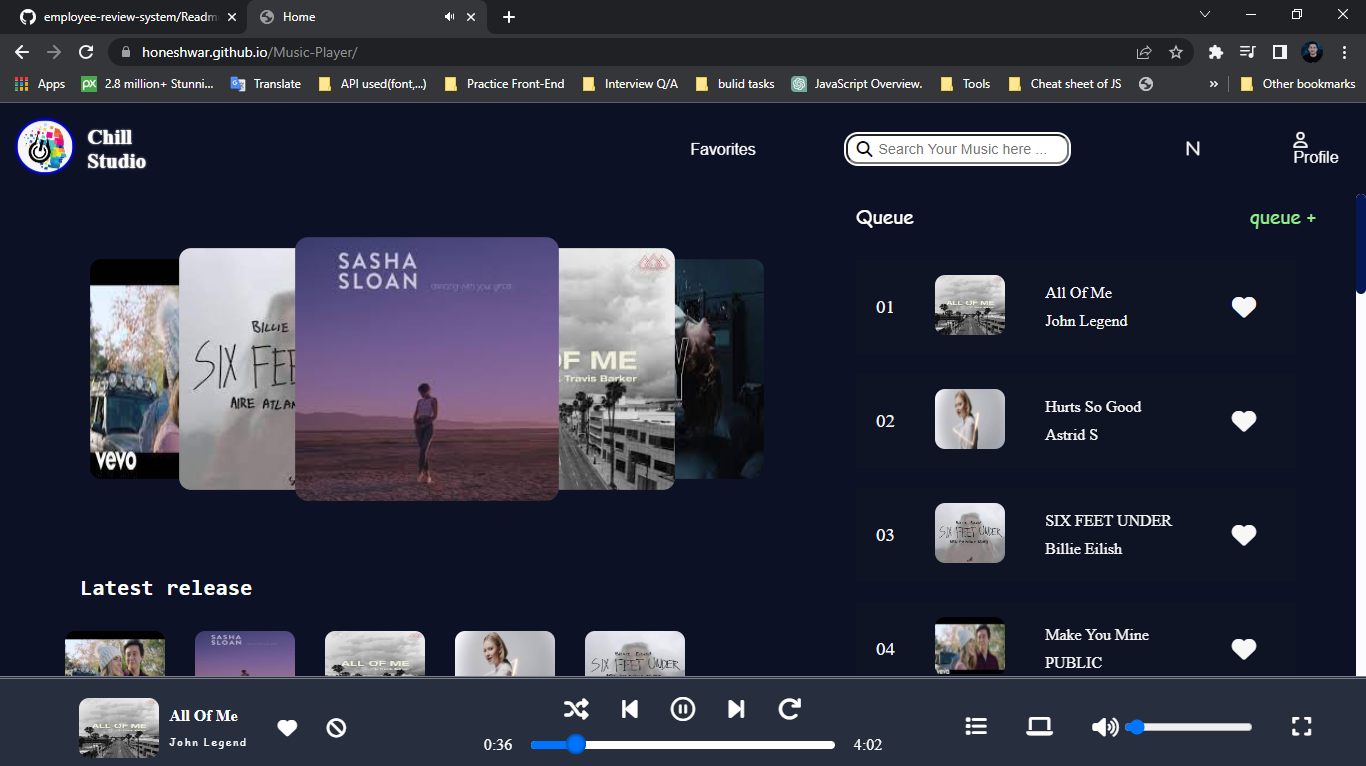
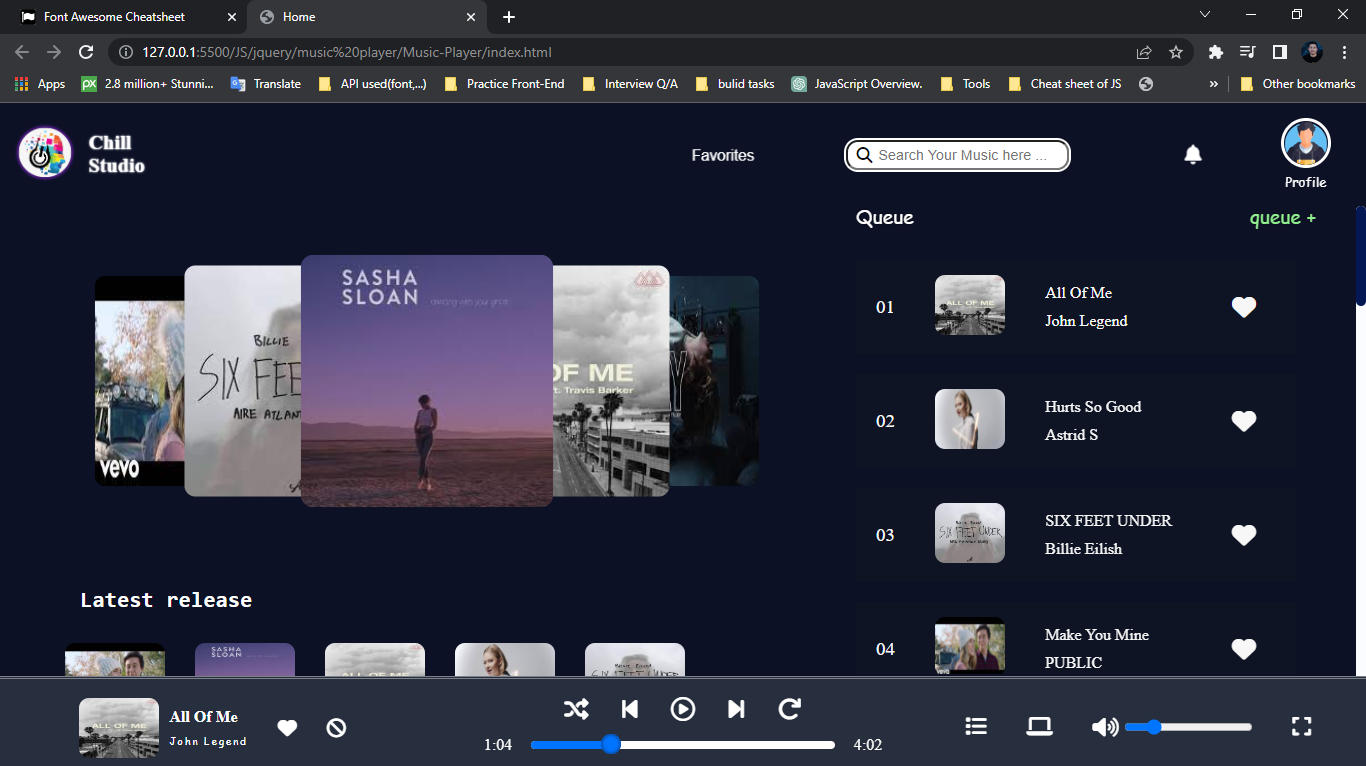
update images

diff --git a/index.html b/index.html
@@ -48,14 +48,14 @@
                    <i  class="fa-solid fa-magnifying-glass search-icon"></i> 
                 </li>
                 <li class="dropdown-item"> 
-                    <a href=""><i class="fa-regular fa-messages">N</i></a>
+                    <a href="#"><i class="fa fa-bell"></i></a>
                 </li>
                 <li class="dropdown-item">
                     <div id="profile" class="profile">
-                        <a href="#signUp-form">
-                            <i class="fa-regular fa-user"></i>
+                        <a>
+                            <img src="./assets/image/profile.png" alt="default profile pic">
                             <span>Profile</span>
-                         </a>
+                        </a>
                     </div> 
                 </li>
                 <li id="close-dropdown" class=""> 
@@ -64,7 +64,8 @@
             </ul>
         </div>
 
-        <form id="signUp-form">
+        <!--use  <a href="#signUp-form"> in profile
+             <form id="signUp-form">
                 <div class="signUp-form-items-container">
                     <div id="email-container" class="signUp-item">
                         <label for="email">Email</label>
@@ -81,7 +82,7 @@
                     <a id="close-button" href="#navbar">close</a>
                   </div>
             </div>
-        </form>
+        </form> -->
     </nav>
  
     <main class="main-section-scrollbar">

diff --git a/style.css b/style.css
@@ -72,7 +72,7 @@ aside{
 /* navbar */
 #navbar{
     width: 100%;
-    padding: 10px;
+    padding-inline: 10px;
     display: flex;
     justify-content: space-between;
     align-items: center;
@@ -175,6 +175,10 @@ aside{
     text-decoration-line:none;
     
 }
+
+.dropdown-item:nth-child(3) i{
+   font-size: large;
+ }
 #close-dropdown{
     display: none;
     padding: 10px 0;
@@ -185,6 +189,31 @@ aside{
    
 
 }
+
+#profile{
+    padding-top: 5px;
+    padding-right: 20px;
+}
+#profile a{
+    display: flex;
+    flex-flow: row wrap;
+    justify-content: flex-start;
+    align-items: center;
+    text-align: right;
+}
+#profile img{
+    width: 50px;
+    /* height: 100%; */
+    border: solid white;
+    border-radius: 100%;
+}
+#profile a span{
+    /* display: none; */
+    padding: 5px;
+    font-size: small;
+    font-family: cursive;
+}
+a{cursor: pointer;}
 
 /************************ sign up form style ********************/
 #signUp-form{
@@ -282,7 +311,7 @@ aside{
 }
 
 /* dropdown-item */
-.dropdown-item:not(.dropdown-item:nth-child(2)){
+.dropdown-item:not(.dropdown-item:nth-child(2) , .dropdown-item:nth-child(4)){
     animation: heartBeat 1s ease-in-out 0s infinite alternate ;
     font-size: .9rem;
 }
